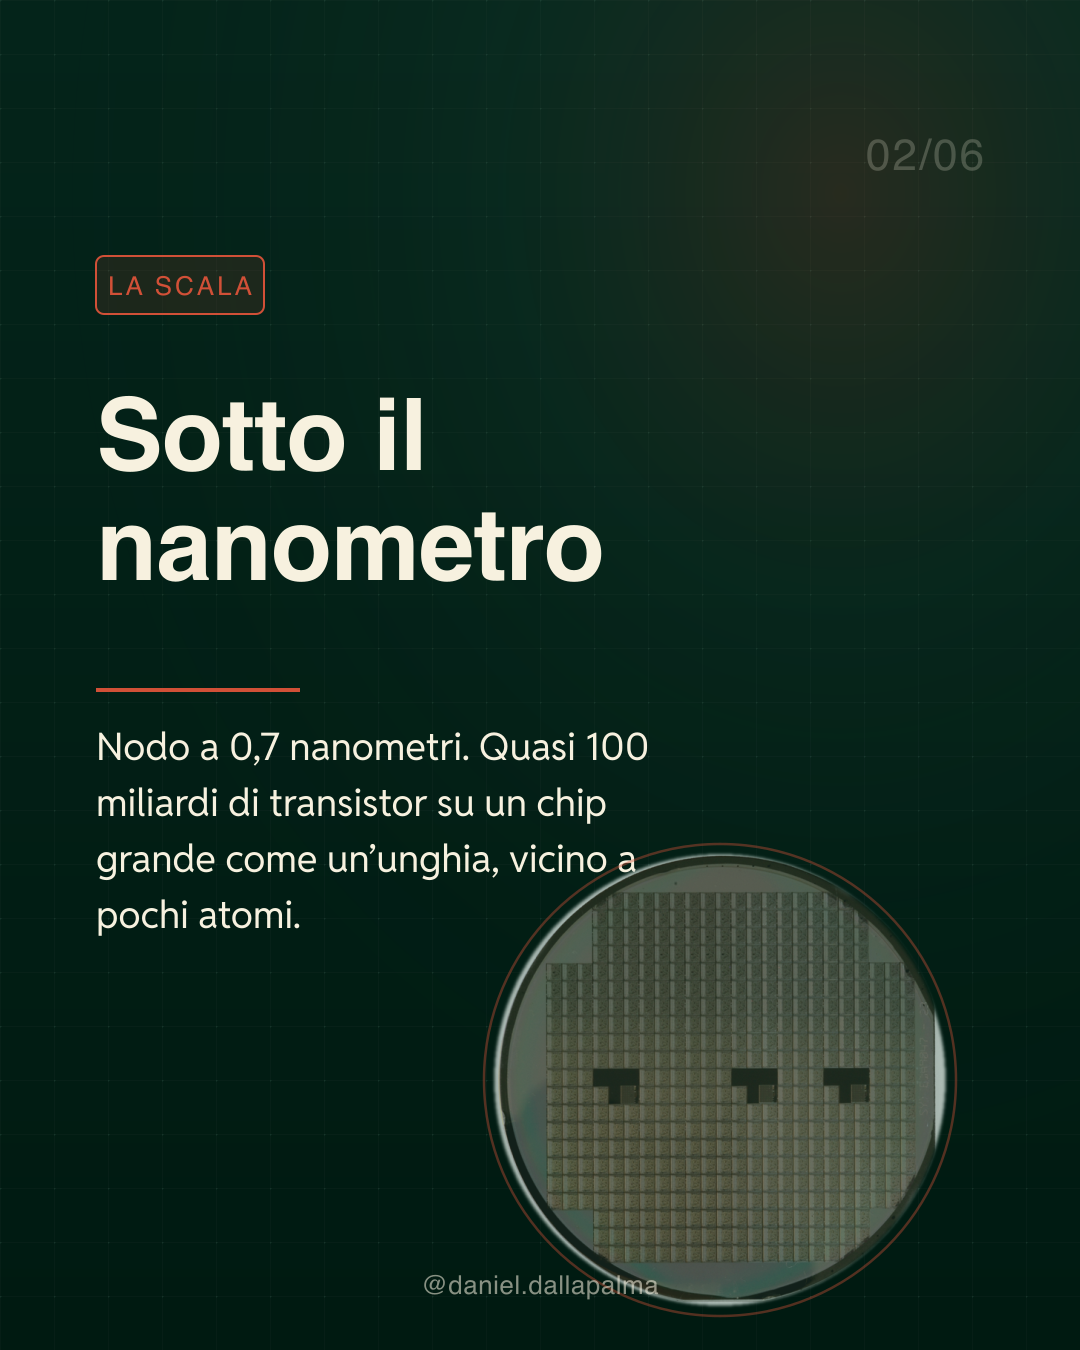
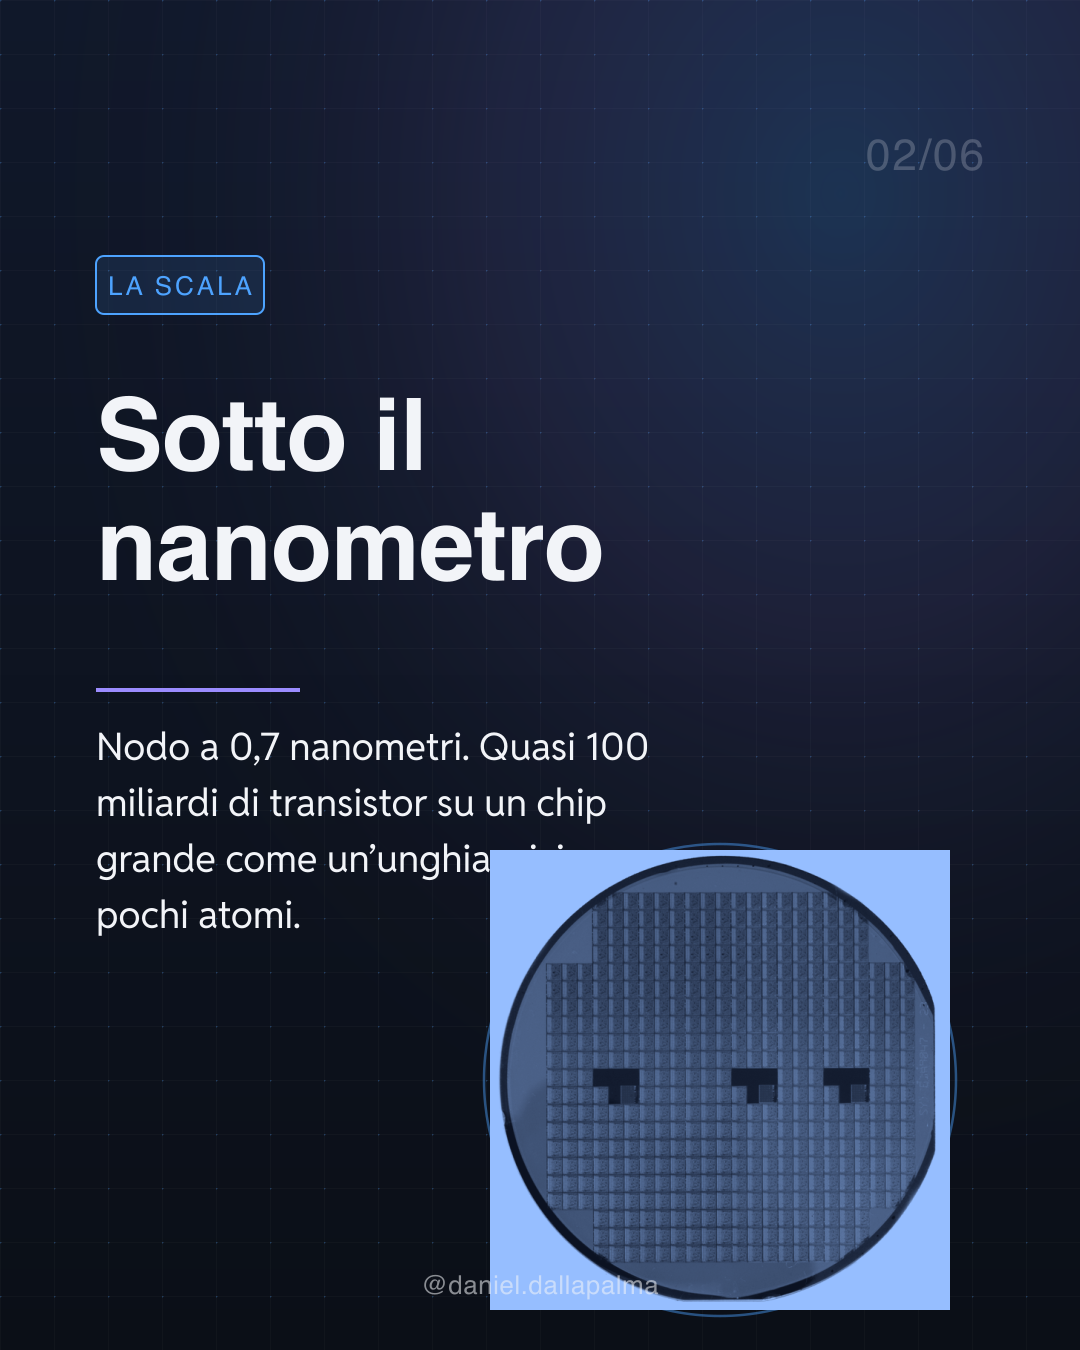
IBM carousel: re-render with Daniel blue/violet palette (personal channel)

diff --git a/ibm_carousel/index.html b/ibm_carousel/index.html
@@ -1,0 +1,28 @@
+<!DOCTYPE html>
+<html>
+<head><meta charset="utf-8"><title>IBM, il chip piu piccolo mai costruito</title>
+<style>
+  * { margin:0; padding:0; box-sizing:border-box; }
+  .page { width:1080px; height:1350px; overflow:hidden; position:relative; background:#0B0F17; }
+  .page img { width:1080px; height:1350px; display:block; object-fit:cover; }
+</style></head>
+<body>
+  <div class="page" data-document-role="page" data-label="1 Cover">
+    <img src="https://raw.githubusercontent.com/numamenudev/numa-ig-assets/main/ibm_carousel/slide1.png" alt="Il chip piu piccolo mai costruito">
+  </div>
+  <div class="page" data-document-role="page" data-label="2 La scala">
+    <img src="https://raw.githubusercontent.com/numamenudev/numa-ig-assets/main/ibm_carousel/slide2.png" alt="La scala, sotto il nanometro">
+  </div>
+  <div class="page" data-document-role="page" data-label="3 La tecnologia">
+    <img src="https://raw.githubusercontent.com/numamenudev/numa-ig-assets/main/ibm_carousel/slide3.png" alt="La tecnologia, nanostack">
+  </div>
+  <div class="page" data-document-role="page" data-label="4 I numeri">
+    <img src="https://raw.githubusercontent.com/numamenudev/numa-ig-assets/main/ibm_carousel/slide4.png" alt="I numeri, piu 50% prestazioni meno 70% energia">
+  </div>
+  <div class="page" data-document-role="page" data-label="5 Perche conta">
+    <img src="https://raw.githubusercontent.com/numamenudev/numa-ig-assets/main/ibm_carousel/slide5.png" alt="Perche conta, il limite dell AI e l energia">
+  </div>
+  <div class="page" data-document-role="page" data-label="6 Il futuro">
+    <img src="https://raw.githubusercontent.com/numamenudev/numa-ig-assets/main/ibm_carousel/slide6.png" alt="Il futuro, Moore non e morta">
+  </div>
+</body></html>
